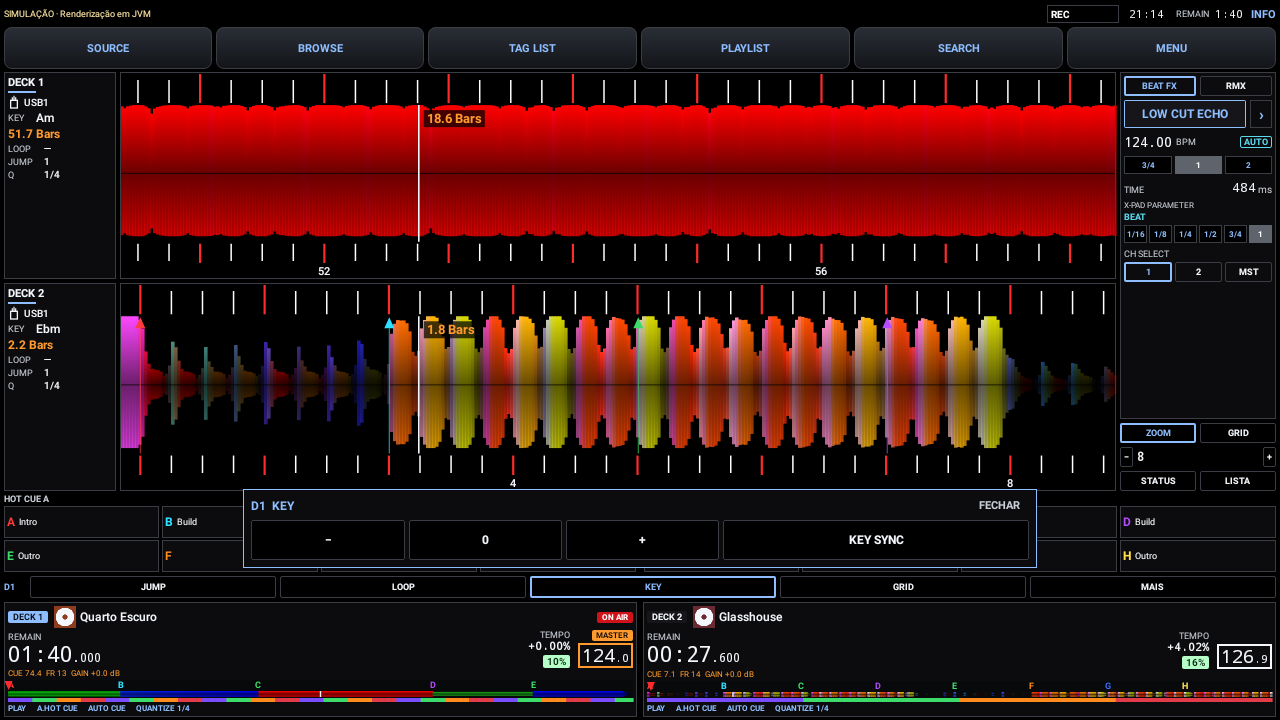
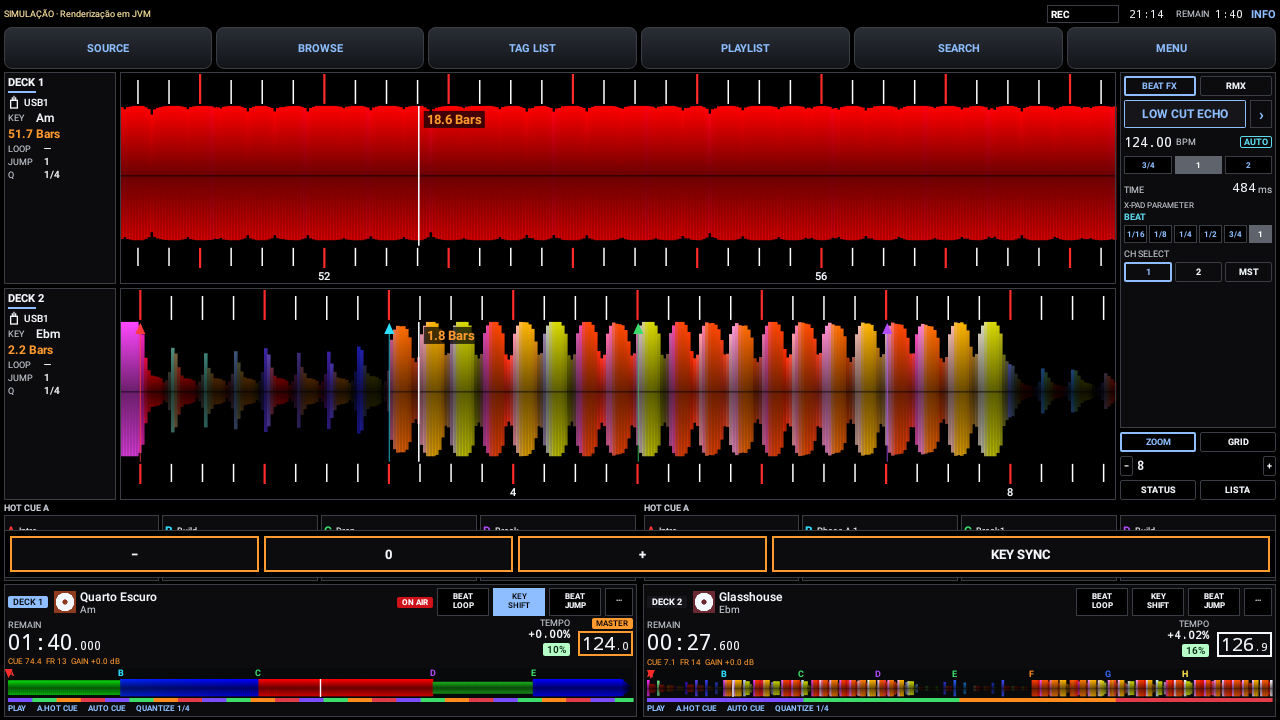
Cabeçalho do deck com BEAT LOOP, KEY SHIFT e BEAT JUMP como no CDJ-3000
Claude-Session: https://claude.ai/code/session_01Sb59H5wbN2UPN3Jxgrj5kb

diff --git a/android/app/src/main/java/os/deckbridge/android/PlayerScreen.kt b/android/app/src/main/java/os/deckbridge/android/PlayerScreen.kt
@@ -169,6 +169,8 @@ fun PlayerScreen(
     var fxPanel by remember { mutableStateOf(true) }
     var picked by remember { mutableStateOf("") }
     var popup by remember { mutableStateOf(startPopup) }
+    var popupDeck by remember { mutableStateOf(activeDeck) }
+    val togglePopup = { d: Int, k: String -> if (popup == k && popupDeck == d) popup = "" else { popupDeck = d; popup = k } }
     val shownNav = nav.ifBlank {
         when {
             overlay == "menu" -> "MENU"
@@ -271,35 +273,30 @@ fun PlayerScreen(
                 RmxDock(rmx, onRmx, { onRmx(rmx.copy(full = false)) }, compact, Modifier.fillMaxWidth().height(if (compact) 292.dp else 400.dp).padding(top = if (compact) 3.dp else 6.dp))
             }
             if (!rmx.full) HotCueBand(catalog, tracks, faces, compact, settings.cuePreset, onActive, onHot, onHotUp, Modifier.fillMaxWidth().padding(top = if (compact) 3.dp else 6.dp))
-            if (!rmx.full) PerformanceStrip(
-                deck = activeDeck,
-                face = faces.getOrElse(activeDeck) { DeckFace() },
-                compact = compact,
-                open = popup,
-                modifier = Modifier.fillMaxWidth().padding(top = if (compact) 3.dp else 4.dp),
-                onOpen = { popup = it },
-            )
             if (!rmx.full) Row(
-                Modifier.fillMaxWidth().height(if (compact) 118.dp else 176.dp).padding(top = if (compact) 3.dp else 4.dp),
+                Modifier.fillMaxWidth().height(if (compact) 136.dp else 196.dp).padding(top = if (compact) 3.dp else 4.dp),
                 horizontalArrangement = Arrangement.spacedBy(6.dp),
             ) {
-                DeckCard(0, tracks.getOrNull(0), faces.getOrElse(0) { DeckFace() }, analysisOf(catalog, tracks.getOrNull(0), settings.cuePreset), master == 0, activeDeck == 0, quantize, settings.quantizeBeats, compact, Modifier.weight(1f).fillMaxHeight(), onActive, onRemain, onRange, onMaster, onQuantize, onPlay, artworkOf, onSeek, waveModeIndex(settings.waveColor), settings)
-                DeckCard(1, tracks.getOrNull(1), faces.getOrElse(1) { DeckFace() }, analysisOf(catalog, tracks.getOrNull(1), settings.cuePreset), master == 1, activeDeck == 1, quantize, settings.quantizeBeats, compact, Modifier.weight(1f).fillMaxHeight(), onActive, onRemain, onRange, onMaster, onQuantize, onPlay, artworkOf, onSeek, waveModeIndex(settings.waveColor), settings)
+                DeckCard(0, tracks.getOrNull(0), faces.getOrElse(0) { DeckFace() }, analysisOf(catalog, tracks.getOrNull(0), settings.cuePreset), master == 0, activeDeck == 0, quantize, settings.quantizeBeats, compact, Modifier.weight(1f).fillMaxHeight(), onActive, onRemain, onRange, onMaster, onQuantize, onPlay, artworkOf, onSeek, waveModeIndex(settings.waveColor), settings, popup, popupDeck, togglePopup)
+                DeckCard(1, tracks.getOrNull(1), faces.getOrElse(1) { DeckFace() }, analysisOf(catalog, tracks.getOrNull(1), settings.cuePreset), master == 1, activeDeck == 1, quantize, settings.quantizeBeats, compact, Modifier.weight(1f).fillMaxHeight(), onActive, onRemain, onRange, onMaster, onQuantize, onPlay, artworkOf, onSeek, waveModeIndex(settings.waveColor), settings, popup, popupDeck, togglePopup)
             }
         }
         if (popup.isNotEmpty() && !rmx.full) {
-            val cards = (if (compact) 118 else 176) + (if (compact) 24 else 30) + 10
+            val cards = (if (compact) 136 else 196) + 6
+            val popTrack = tracks.getOrNull(popupDeck)
+            val popFace = faces.getOrElse(popupDeck) { DeckFace() }
             Box(Modifier.fillMaxSize().clickable { popup = "" })
             PerformancePopup(
                 kind = popup,
-                deck = activeDeck,
-                face = faces.getOrElse(activeDeck) { DeckFace() },
+                deck = popupDeck,
+                face = popFace,
+                loopBeats = if (popTrack == null) 0.0 else (popFace.loopEnd - popFace.loopStart) * popTrack.bpm / 60.0,
                 compact = compact,
-                modifier = Modifier.align(Alignment.BottomCenter).padding(bottom = cards.dp).fillMaxWidth(0.62f),
-                onJump = { beats -> onJump(activeDeck, beats) },
-                onLoop = { which -> onLoopButton(activeDeck, which) },
-                onBeatLoop = { beats -> onBeatLoop(activeDeck, beats) },
-                onAction = { onDeckAction(activeDeck, it) },
+                modifier = Modifier.align(Alignment.BottomCenter).padding(bottom = cards.dp, start = 4.dp, end = 4.dp).fillMaxWidth(),
+                onJump = { beats -> onJump(popupDeck, beats) },
+                onLoop = { which -> onLoopButton(popupDeck, which) },
+                onBeatLoop = { beats -> onBeatLoop(popupDeck, beats) },
+                onAction = { onDeckAction(popupDeck, it) },
                 onClose = { popup = "" },
             )
         }
@@ -687,36 +684,28 @@ private fun HotGrid(
     }
 }
 
-/** Linha fina de atalhos: cada botão abre um popup, como a tela de toque do leitor de club. */
+/** Botão de toque do cabeçalho do player, em duas linhas, com sublinhado quando ativo (como o CDJ-3000). */
 @Composable
-private fun PerformanceStrip(
-    deck: Int,
-    face: DeckFace,
-    compact: Boolean,
-    open: String,
-    modifier: Modifier,
-    onOpen: (String) -> Unit,
-) {
-    val loopOn = face.loopEnd > face.loopStart
-    Row(modifier.height(if (compact) 24.dp else 30.dp), horizontalArrangement = Arrangement.spacedBy(4.dp), verticalAlignment = Alignment.CenterVertically) {
-        TextInk("D${deck + 1}", fontSize = if (compact) 9.sp else 11.sp, weight = FontWeight.Bold, color = Color(StagePalette.accentBlue), modifier = Modifier.width(if (compact) 22.dp else 28.dp))
-        listOf(
-            "JUMP" to false,
-            "LOOP" to loopOn,
-            "KEY" to (face.keyShift != 0),
-            "GRID" to (face.gridShiftMs != 0.0 || face.gridStretch != 1.0),
-            "MAIS" to (face.slip || face.reversed || face.emergency || face.cueBank != 0),
-        ).forEach { (label, lit) ->
-            Choice(label, open == label || lit, compact, Modifier.weight(1f).height(if (compact) 22.dp else 28.dp)) { onOpen(if (open == label) "" else label) }
-        }
+private fun TouchTab(first: String, second: String, lit: Boolean, open: Boolean, compact: Boolean, modifier: Modifier, onClick: () -> Unit) {
+    val ink = if (open) Color(inkOn(StagePalette.accentBlue)) else if (lit) Color(StagePalette.accentBlue) else Color(StagePalette.ink)
+    Column(
+        modifier.height(if (compact) 28.dp else 38.dp).background(Color(if (open) StagePalette.accentBlue else StagePalette.bg)).border(1.dp, Color(if (open) StagePalette.accentBlue else StagePalette.line)).clickable(onClick = onClick),
+        horizontalAlignment = Alignment.CenterHorizontally,
+        verticalArrangement = Arrangement.Center,
+    ) {
+        TextInk(first, color = ink, fontSize = if (compact) 8.sp else 10.sp, weight = FontWeight.Bold, maxLines = 1)
+        if (second.isNotEmpty()) TextInk(second, color = ink, fontSize = if (compact) 8.sp else 10.sp, weight = FontWeight.Bold, maxLines = 1)
+        Box(Modifier.padding(top = 1.dp).width(if (compact) 22.dp else 30.dp).height(2.dp).background(if (lit && !open) Color(StagePalette.accentBlue) else Color.Transparent))
     }
 }
 
+/** Faixa de toque que abre entre as ondas e o cartão do deck, como o beat loop do CDJ-3000: células de borda laranja, a ativa preenchida. */
 @Composable
 private fun PerformancePopup(
     kind: String,
     deck: Int,
     face: DeckFace,
+    loopBeats: Double,
     compact: Boolean,
     modifier: Modifier,
     onJump: (Int) -> Unit,
@@ -726,64 +715,52 @@ private fun PerformancePopup(
     onClose: () -> Unit,
 ) {
     val loopOn = face.loopEnd > face.loopStart
-    Column(
-        modifier.background(Color(StagePalette.panel)).border(1.dp, Color(StagePalette.accentBlue)).clickable(enabled = false) {}.padding(8.dp),
-        verticalArrangement = Arrangement.spacedBy(6.dp),
-    ) {
-        Row(Modifier.fillMaxWidth(), verticalAlignment = Alignment.CenterVertically) {
-            TextInk("D${deck + 1}  $kind", fontSize = 12.sp, weight = FontWeight.Bold, color = Color(StagePalette.accentBlue), modifier = Modifier.weight(1f))
-            Box(Modifier.clickable(onClick = onClose).padding(horizontal = 8.dp, vertical = 2.dp)) {
-                TextInk("FECHAR", fontSize = 11.sp, weight = FontWeight.Bold, color = Color(StagePalette.inkMuted))
-            }
-        }
+    Column(modifier.background(Color(StagePalette.bg)).border(1.dp, Color(StagePalette.line)).clickable(enabled = false) {}.padding(6.dp), verticalArrangement = Arrangement.spacedBy(5.dp)) {
         when (kind) {
-            "JUMP" -> {
-                Row(Modifier.fillMaxWidth(), horizontalArrangement = Arrangement.spacedBy(4.dp)) {
-                    listOf(-64, -32, -16, -8, -4, -2, -1).forEach { b -> PopKey("$b", false, Modifier.weight(1f)) { onJump(b) } }
-                }
-                Row(Modifier.fillMaxWidth(), horizontalArrangement = Arrangement.spacedBy(4.dp)) {
-                    listOf(1, 2, 4, 8, 16, 32, 64).forEach { b -> PopKey("+$b", false, Modifier.weight(1f)) { onJump(b) } }
-                }
-            }
             "LOOP" -> {
-                Row(Modifier.fillMaxWidth(), horizontalArrangement = Arrangement.spacedBy(4.dp)) {
-                    PopKey("4 BEAT", loopOn, Modifier.weight(1.4f)) { onLoop("4") }
+                Row(Modifier.fillMaxWidth(), horizontalArrangement = Arrangement.spacedBy(5.dp)) {
+                    listOf(0.25 to "1/4", 0.5 to "1/2", 1.0 to "1", 2.0 to "2", 4.0 to "4", 8.0 to "8", 16.0 to "16", 32.0 to "32").forEach { (beats, label) ->
+                        PopKey(label, loopOn && kotlin.math.abs(loopBeats - beats) < 0.05, Modifier.weight(1f)) { onBeatLoop(beats) }
+                    }
+                }
+                Row(Modifier.fillMaxWidth(), horizontalArrangement = Arrangement.spacedBy(5.dp)) {
                     PopKey("IN", false, Modifier.weight(1f)) { onLoop("IN") }
                     PopKey("OUT", false, Modifier.weight(1f)) { onLoop("OUT") }
                     PopKey("1/2X", false, Modifier.weight(1f)) { onLoop("HALF") }
                     PopKey("2X", false, Modifier.weight(1f)) { onLoop("DOUBLE") }
-                    PopKey("EXIT", loopOn, Modifier.weight(1f)) { onLoop("RELOOP") }
+                    PopKey("RELOOP/EXIT", loopOn, Modifier.weight(2f)) { onLoop("RELOOP") }
                 }
-                Row(Modifier.fillMaxWidth(), horizontalArrangement = Arrangement.spacedBy(4.dp)) {
-                    listOf(0.25 to "1/4", 0.5 to "1/2", 1.0 to "1", 2.0 to "2", 4.0 to "4", 8.0 to "8", 16.0 to "16", 32.0 to "32").forEach { (beats, label) ->
-                        PopKey(label, false, Modifier.weight(1f)) { onBeatLoop(beats) }
-                    }
+            }
+            "JUMP" -> {
+                Row(Modifier.fillMaxWidth(), horizontalArrangement = Arrangement.spacedBy(5.dp)) {
+                    listOf(-64, -32, -16, -8, -4, -2, -1).forEach { b -> PopKey("$b", false, Modifier.weight(1f)) { onJump(b) } }
+                }
+                Row(Modifier.fillMaxWidth(), horizontalArrangement = Arrangement.spacedBy(5.dp)) {
+                    listOf(1, 2, 4, 8, 16, 32, 64).forEach { b -> PopKey("+$b", false, Modifier.weight(1f)) { onJump(b) } }
                 }
             }
             "KEY" -> {
                 val shiftLabel = if (face.keyShift > 0) "+${face.keyShift}" else face.keyShift.toString()
-                Row(Modifier.fillMaxWidth(), horizontalArrangement = Arrangement.spacedBy(4.dp)) {
+                Row(Modifier.fillMaxWidth(), horizontalArrangement = Arrangement.spacedBy(5.dp)) {
                     PopKey("−", false, Modifier.weight(1f)) { onAction("KEY-") }
                     PopKey(shiftLabel, face.keyShift != 0, Modifier.weight(1f)) { onAction("KEY0") }
                     PopKey("+", false, Modifier.weight(1f)) { onAction("KEY+") }
                     PopKey("KEY SYNC", false, Modifier.weight(2f)) { onAction("SYNC") }
                 }
             }
-            "GRID" -> {
-                Row(Modifier.fillMaxWidth(), horizontalArrangement = Arrangement.spacedBy(4.dp)) {
-                    PopKey("−10 ms", face.gridShiftMs < 0.0, Modifier.weight(1f)) { onAction("G-") }
-                    PopKey("+10 ms", face.gridShiftMs > 0.0, Modifier.weight(1f)) { onAction("G+") }
-                    PopKey("−0,1%", face.gridStretch < 1.0, Modifier.weight(1f)) { onAction("S-") }
-                    PopKey("+0,1%", face.gridStretch > 1.0, Modifier.weight(1f)) { onAction("S+") }
-                    PopKey("RESET", false, Modifier.weight(1f)) { onAction("G0") }
-                }
-            }
             else -> {
-                Row(Modifier.fillMaxWidth(), horizontalArrangement = Arrangement.spacedBy(4.dp)) {
+                Row(Modifier.fillMaxWidth(), horizontalArrangement = Arrangement.spacedBy(5.dp)) {
                     PopKey("SLIP", face.slip, Modifier.weight(1f)) { onAction("SLIP") }
                     PopKey("REV", face.reversed, Modifier.weight(1f)) { onAction("REV") }
                     PopKey("EMERG", face.emergency, Modifier.weight(1f)) { onAction("EMERG") }
                     PopKey("HOT CUE ${cueBankLetter(face.cueBank)}", face.cueBank != 0, Modifier.weight(1.4f)) { onAction("BANK") }
+                }
+                Row(Modifier.fillMaxWidth(), horizontalArrangement = Arrangement.spacedBy(5.dp)) {
+                    PopKey("GRADE −10 ms", face.gridShiftMs < 0.0, Modifier.weight(1f)) { onAction("G-") }
+                    PopKey("+10 ms", face.gridShiftMs > 0.0, Modifier.weight(1f)) { onAction("G+") }
+                    PopKey("−0,1%", face.gridStretch < 1.0, Modifier.weight(1f)) { onAction("S-") }
+                    PopKey("+0,1%", face.gridStretch > 1.0, Modifier.weight(1f)) { onAction("S+") }
+                    PopKey("RESET", false, Modifier.weight(1f)) { onAction("G0") }
                 }
             }
         }
@@ -792,11 +769,12 @@ private fun PerformancePopup(
 
 @Composable
 private fun PopKey(label: String, selected: Boolean, modifier: Modifier, onClick: () -> Unit) {
+    val orange = Color(StagePalette.accentOrange)
     Box(
-        modifier.height(40.dp).background(Color(StagePalette.bg)).border(if (selected) 1.5.dp else 1.dp, Color(if (selected) StagePalette.accentBlue else StagePalette.line), RoundedCornerShape(2.dp)).clickable(onClick = onClick),
+        modifier.height(36.dp).background(if (selected) orange else Color(StagePalette.panel)).border(1.5.dp, orange).clickable(onClick = onClick),
         contentAlignment = Alignment.Center,
     ) {
-        TextInk(label, color = if (selected) Color(StagePalette.accentBlue) else Color(StagePalette.ink), fontSize = 12.sp, weight = FontWeight.Bold, maxLines = 1)
+        TextInk(label, color = if (selected) Color(inkOn(StagePalette.accentOrange)) else Color(StagePalette.ink), fontSize = 13.sp, weight = FontWeight.Bold, maxLines = 1)
     }
 }
 
@@ -822,6 +800,9 @@ private fun DeckCard(
     onSeek: (Int, Float) -> Unit,
     waveMode: Int = 0,
     settings: PlayerSettings = PlayerSettings(),
+    popup: String = "",
+    popupDeck: Int = -1,
+    onPopup: (Int, String) -> Unit = { _, _ -> },
 ) {
     val duration = (track?.durationSeconds ?: 0).toDouble()
     val shown = if (track == null) {
@@ -845,12 +826,20 @@ private fun DeckCard(
                 TextInk("DECK ${deck + 1}", color = badgeInk, fontSize = if (compact) 9.sp else 11.sp, weight = FontWeight.Bold)
             }
             CoverTile(artworkOf(track), track?.title ?: "", Modifier.padding(start = 6.dp).size(if (compact) 22.dp else 32.dp))
-            TextInk(track?.title ?: "Sem faixa", fontSize = if (compact) 12.sp else 15.sp, weight = FontWeight.SemiBold, maxLines = 1, modifier = Modifier.weight(1f).padding(start = 4.dp))
+            Column(Modifier.weight(1f).padding(start = 4.dp)) {
+                TextInk(track?.title ?: "Sem faixa", fontSize = if (compact) 12.sp else 15.sp, weight = FontWeight.SemiBold, maxLines = 1)
+                if (track != null) TextInk("${track.keyName.ifBlank { "—" }}", fontSize = if (compact) 10.sp else 12.sp, color = Color(StagePalette.inkMuted), maxLines = 1)
+            }
             if (face.onAir) {
                 Box(Modifier.clip(RoundedCornerShape(2.dp)).background(Color(StagePalette.onAir)).padding(horizontal = 5.dp, vertical = 1.dp)) {
                     TextInk("ON AIR", color = Color.White, fontSize = if (compact) 8.sp else 10.sp, weight = FontWeight.Bold)
                 }
             }
+            val tab = Modifier.padding(start = 4.dp).width(if (compact) 52.dp else 72.dp)
+            TouchTab("BEAT", "LOOP", face.loopEnd > face.loopStart, popup == "LOOP" && popupDeck == deck, compact, tab) { onPopup(deck, "LOOP") }
+            TouchTab("KEY", "SHIFT", face.keyShift != 0, popup == "KEY" && popupDeck == deck, compact, tab) { onPopup(deck, "KEY") }
+            TouchTab("BEAT", "JUMP", false, popup == "JUMP" && popupDeck == deck, compact, tab) { onPopup(deck, "JUMP") }
+            TouchTab("···", "", face.slip || face.reversed || face.emergency || face.cueBank != 0 || face.gridShiftMs != 0.0 || face.gridStretch != 1.0, popup == "MAIS" && popupDeck == deck, compact, Modifier.padding(start = 4.dp).width(if (compact) 28.dp else 40.dp)) { onPopup(deck, "MAIS") }
         }
         Row(Modifier.padding(top = if (compact) 2.dp else 4.dp), verticalAlignment = Alignment.CenterVertically) {
             Column(Modifier.weight(1f).clickable { onRemain(deck) }) {
@@ -866,6 +855,7 @@ private fun DeckCard(
                 Box(Modifier.padding(top = 2.dp).clip(RoundedCornerShape(2.dp)).background(Color(StagePalette.playBg)).padding(horizontal = 4.dp, vertical = 1.dp)) {
                     TextInk(rangeBadge(face.range), color = Color(StagePalette.playInk), fontSize = 10.sp, weight = FontWeight.Bold)
                 }
+                if (face.keyLock) TextInk("MT", color = Color(StagePalette.accentOrange), fontSize = 10.sp, weight = FontWeight.Bold, modifier = Modifier.padding(top = 1.dp))
             }
             Column(horizontalAlignment = Alignment.End, modifier = Modifier.clickable { onMaster(deck) }) {
                 if (master) {

diff --git a/docs/runbooks/implementation-log.md b/docs/runbooks/implementation-log.md
@@ -451,3 +451,8 @@ O equipamento físico fica para o fim. Simulação não foi montada (T075–T077
 - Mudança: a faixa de ~40 botões (beat jump, loop, KEY, grade, SLIP, REV...) saiu da tela principal. Ficou uma linha fina com JUMP, LOOP, KEY, GRID e MAIS; cada botão abre um popup sobre as ondas (como a tela de toque do leitor de club). Tocar fora ou em FECHAR fecha.
 - Evidência: `docs/ui/compact-player.png`, `compact-popup-loop.png`, `compact-popup-key.png` (Robolectric/Roborazzi, JVM).
 - Status: UI verificada só em simulação; uso no tablet `BLOCKED_HARDWARE`.
+
+## 2026-10-23 — Cabeçalho do deck no padrão do CDJ-3000
+
+- Mudança: a linha de atalhos saiu. BEAT LOOP, KEY SHIFT e BEAT JUMP (mais "···" para SLIP/REV/EMERG/banco/grade) ficam no cabeçalho de cada deck, em duas linhas, com sublinhado quando ativos e preenchimento azul quando abertos. O popup abre como faixa de células de borda laranja logo acima dos cartões, com o beat loop ativo preenchido. Key sob o título e MT ao lado do tempo.
+- Evidência: `docs/ui/compact-popup-loop.png`, `compact-popup-key.png`, `compact-player.png`. Só simulação; tablet `BLOCKED_HARDWARE`.
